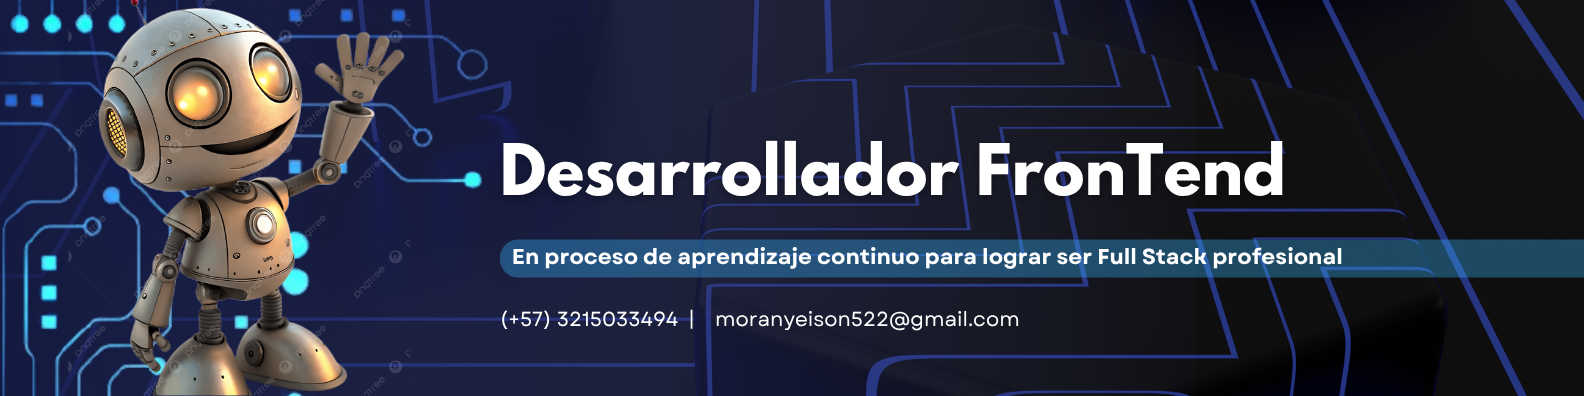
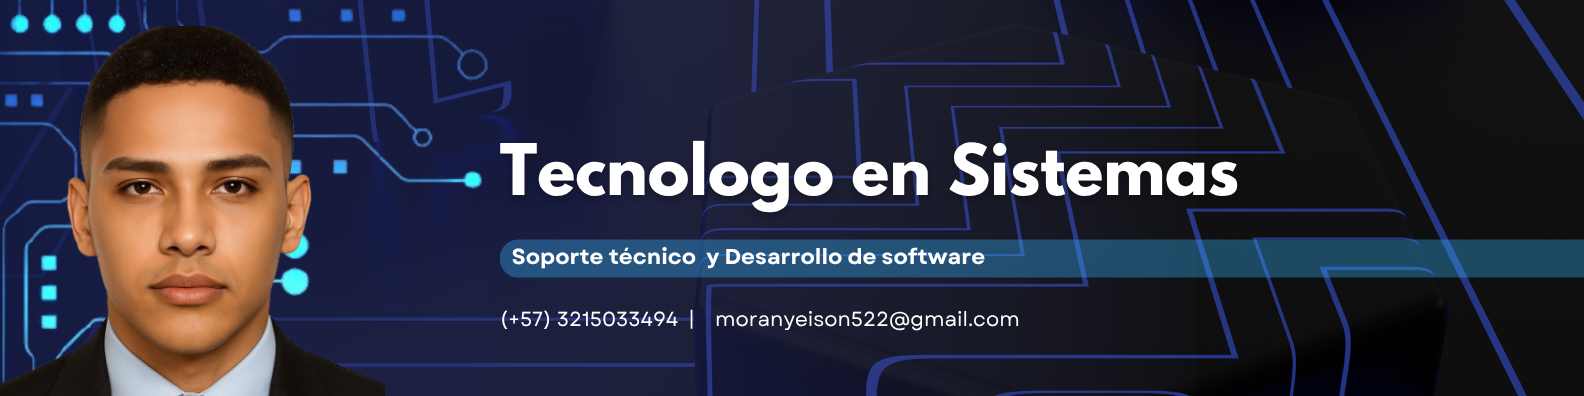
Actualizacion en La portada, sobre mi y las Habilidades

diff --git a/index.html b/index.html
@@ -1,115 +1,168 @@
 <!DOCTYPE html>
 <html lang="es">
-
-<head>
-    <meta charset="UTF-8">
-    <meta name="viewport" content="width=device-width, initial-scale=1.0">
+  <head>
+    <meta charset="UTF-8" />
+    <meta name="viewport" content="width=device-width, initial-scale=1.0" />
     <title>Yeison Moran</title>
-    <link rel="stylesheet" href="estyles.css">
-    <link rel="stylesheet" href="https://cdnjs.cloudflare.com/ajax/libs/font-awesome/6.5.0/css/all.min.css">
+    <link rel="stylesheet" href="estyles.css" />
+    <link
+      rel="stylesheet"
+      href="https://cdnjs.cloudflare.com/ajax/libs/font-awesome/6.5.0/css/all.min.css"
+    />
     <script src="https://cdn.jsdelivr.net/npm/@emailjs/browser@3/dist/email.min.js"></script>
-</head>
+  </head>
 
-<body>
-
+  <body>
     <header>
-        <nav>
-            <a href="#Sobre-mi">Sobre mí</a>
-            <a href="#Tecnologias">Tecnologías</a>
-            <a href="#Mis-proyectos">Proyectos</a>
-            <a href="#Habilidades">Habilidades</a>
-        </nav>
+      <nav>
+        <a href="#Sobre-mi">Sobre mí</a>
+        <a href="#Tecnologias">Tecnologías</a>
+        <a href="#Mis-proyectos">Proyectos</a>
+        <a href="#Habilidades">Habilidades</a>
+      </nav>
 
-        <div class="intro">
-            <h1>Hola, soy Yeison Stiven Lara Moran</h1>
-            <img src="img/portada.png" alt="Portada del perfil">
-        </div>
+      <div class="intro">
+        <h1>Hey, soy Yeison Stiven Lara Moran</h1>
+        <img src="img/portada.png" alt="Portada del perfil" />
+      </div>
     </header>
 
     <section id="FormularioContacto">
-        <h2>Escríbeme</h2>
-        <p>¿Tienes alguna pregunta o propuesta? ¡Contáctame!</p>
+      <h2>Escríbeme</h2>
+      <p>¿Tienes alguna pregunta o propuesta? ¡Contáctame!</p>
 
-        <form id="contact-form">
-            <input type="text" id="nombre" name="user_name" placeholder="Tu nombre" required>
-            <input type="email" id="email" name="user_email" placeholder="Tu correo" required>
-            <textarea id="mensaje" name="message" placeholder="Tu mensaje" required></textarea>
-            <button type="submit">Enviar mensaje</button>
-        </form>
+      <form id="contact-form">
+        <input
+          type="text"
+          id="nombre"
+          name="user_name"
+          placeholder="Tu nombre"
+          required
+        />
+        <input
+          type="email"
+          id="email"
+          name="user_email"
+          placeholder="Tu correo"
+          required
+        />
+        <textarea
+          id="mensaje"
+          name="message"
+          placeholder="Tu mensaje"
+          required
+        ></textarea>
+        <button type="submit">Enviar mensaje</button>
+      </form>
 
-        <p id="estado-envio"></p>
+      <p id="estado-envio"></p>
     </section>
-
 
     <main>
-        <section id="Sobre-mi">
-            <h2>Sobre mí</h2>
-            <div class="sobre-mi">
-                <p>
-                    Soy una persona apasionada por la programación. En mis tiempos libres me dedico a estudiar para
-                    cumplir mi sueño de ser un desarrollador profesional.
-                </p>
-                <img src="img/software.png" alt="Imagen de desarrollo">
-            </div>
-        </section>
+      <section id="Sobre-mi">
+        <h2>Sobre mí</h2>
+        <div class="sobre-mi">
+          <p>
+            Tecnólogo en formación en Sistemas de Información, con experiencia
+            en soporte técnico presencial y remoto, administración de usuarios
+            en Active Directory, gestión de incidencias, configuración de redes
+            y actualización de inventario de equipos mediante GLPI y
+            FusionInventory. Proactivo, orientado al servicio, con capacidad
+            para resolver problemas rápidamente y documentar procesos.
+            Comprometido con el aprendizaje continuo y el trabajo en equipo.
+          </p>
+          <img src="img/software.png" alt="Imagen de desarrollo" />
+        </div>
+      </section>
 
-        <section id="Tecnologias">
-            <h2>Tecnologías</h2>
-            <div class="tecnologias">
-                <img src="img/icone-html.png" alt="HTML">
-                <img src="img/icone-css.png" alt="CSS">
-                <img src="img/icone-nodejs.png" alt="NodeJS">
-                <img src="img/icone-mysql.png" alt="MySQL">
-                <img src="img/icone-javascript.png" alt="JavaScript">
-            </div>
-        </section>
+      <section id="Tecnologias">
+        <h2>Tecnologías</h2>
+        <div class="tecnologias">
+          <img src="img/icone-html.png" alt="HTML" />
+          <img src="img/icone-css.png" alt="CSS" />
+          <img src="img/icone-nodejs.png" alt="NodeJS" />
+          <img src="img/icone-mysql.png" alt="MySQL" />
+          <img src="img/icone-javascript.png" alt="JavaScript" />
+        </div>
+      </section>
 
-        <section id="Mis-proyectos">
-            <h2>Mis proyectos</h2>
+      <section id="Mis-proyectos">
+        <h2>Mis proyectos</h2>
 
-            <div class="proyecto">
-                <img src="img/mis_proyectos/calculator.png" alt="Calculadora" width="300" />
-                <h3>Calculadora Básica</h3>
-                <p>Proyecto desarrollado en HTML, CSS y JavaScript. Permite realizar operaciones básicas.</p>
-                <a href="proyectos/calculadora/index.html" target="_blank">Ver proyecto</a>
-            </div>
-        </section>
+        <div class="proyecto">
+          <img
+            src="img/mis_proyectos/calculator.png"
+            alt="Calculadora"
+            width="300"
+          />
+          <h3>Calculadora Básica</h3>
+          <p>
+            Proyecto desarrollado en HTML, CSS y JavaScript. Permite realizar
+            operaciones básicas.
+          </p>
+          <a href="proyectos/calculadora/index.html" target="_blank"
+            >Ver proyecto</a
+          >
+        </div>
+      </section>
 
-        <section id="Habilidades">
-            <h2>Habilidades</h2>
-            <ul>
-                <li>Frontend: HTML5, CSS, JavaScript.</li>
-                <li>Backend: Node.js, Express.js</li>
-                <li>Bases de datos: MySQL, SQL (básico)</li>
-                <li>Versionamiento: Git, GitHub</li>
-                <li>Diseño responsive: Flexbox, Grid, Media Queries</li>
-                <li>Herramientas: VS Code, Postman, npm</li>
-                <li>Idiomas: Inglés básico (en proceso de aprendizaje)</li>
-            </ul>
-        </section>
+      <section id="Habilidades">
+        <h2>Habilidades de Desarrrollador</h2>
+        <ul>
+          <li>Frontend: HTML5, CSS, JavaScript.</li>
+          <li>Backend: Node.js, Express.js</li>
+          <li>Bases de datos: MySQL, SQL (básico)</li>
+          <li>Versionamiento: Git, GitHub</li>
+          <li>Diseño responsive: Flexbox, Grid, Media Queries</li>
+          <li>Herramientas: VS Code, Postman, npm</li>
+          <li>Idiomas: Inglés básico (en proceso de aprendizaje)</li>
+        </ul>
+      </section>
+
+      <section>
+        <h2>Habilidades de Soporte Tecnico</h2>
+        <ul>
+          <li>
+            Soporte y redes: Active Directory, Exchange Admin Center, Fortinet,
+            Sophos, redes IP, LAN/WAN, electricidad básica.
+          </li>
+          <li>
+            Inventario y mesa de ayuda: GLPI, FusionInventory, Mantis, Daruma,
+            RealVNC.
+          </li>
+          <li>
+            Sistemas operativos: Windows 10/11, Linux (Ubuntu), MacOS. -
+            Virtualización y productividad: VMware, Microsoft 365 (Teams,
+            Exchange, Office)
+          </li>
+        </ul>
+      </section>
     </main>
     <section id="Contacto">
-        <h2>Contacto</h2>
-        <p>¡Gracias por visitar mi portafolio! Puedes contactarme o ver más de mi trabajo en:</p>
+      <h2>Contacto</h2>
+      <p>
+        ¡Gracias por visitar mi portafolio! Puedes contactarme o ver más de mi
+        trabajo en:
+      </p>
 
-        <div class="contacto">
-            <a href="https://github.com/yeisonmoran" target="_blank">
-                <i class="fab fa-github"></i> GitHub
-            </a>
+      <div class="contacto">
+        <a href="https://github.com/yeisonmoran" target="_blank">
+          <i class="fab fa-github"></i> GitHub
+        </a>
 
-            <a href="https://www.linkedin.com/in/yeison-stiven-lara-moran-613a9922b/" target="_blank">
-                <i class="fab fa-linkedin"></i> LinkedIn
-            </a>
+        <a
+          href="https://www.linkedin.com/in/yeison-stiven-lara-moran-613a9922b/"
+          target="_blank"
+        >
+          <i class="fab fa-linkedin"></i> LinkedIn
+        </a>
 
-            <a href="docs/YeisonMoran_CV.pdf" download>
-                <i class="fas fa-file-download"></i> Descargar CV
-            </a>
-        </div>
+        <a href="docs/YeisonMoran_CV.pdf" download>
+          <i class="fas fa-file-download"></i> Descargar CV
+        </a>
+      </div>
     </section>
 
-
     <script src="javaS.js"></script>
-
-</body>
-
+  </body>
 </html>

diff --git a/estyles.css b/estyles.css
@@ -61,7 +61,7 @@ section {
 section h2 {
   font-size: 1.8rem;
   margin-bottom: 20px;
-  color: #005f73;
+  color: #008d86;
 }
 
 /* Sobre mí */

diff --git a/README.md b/README.md
@@ -2,9 +2,4 @@
 
 <p align="center">Estoy en busca de trabajo para brindar mis conocimientos, obtener experiencia y crecer como profesional</p>
 
-
-
-
-
-
-
+<h1>Portafolio personal para buscar trabajo<h1>
